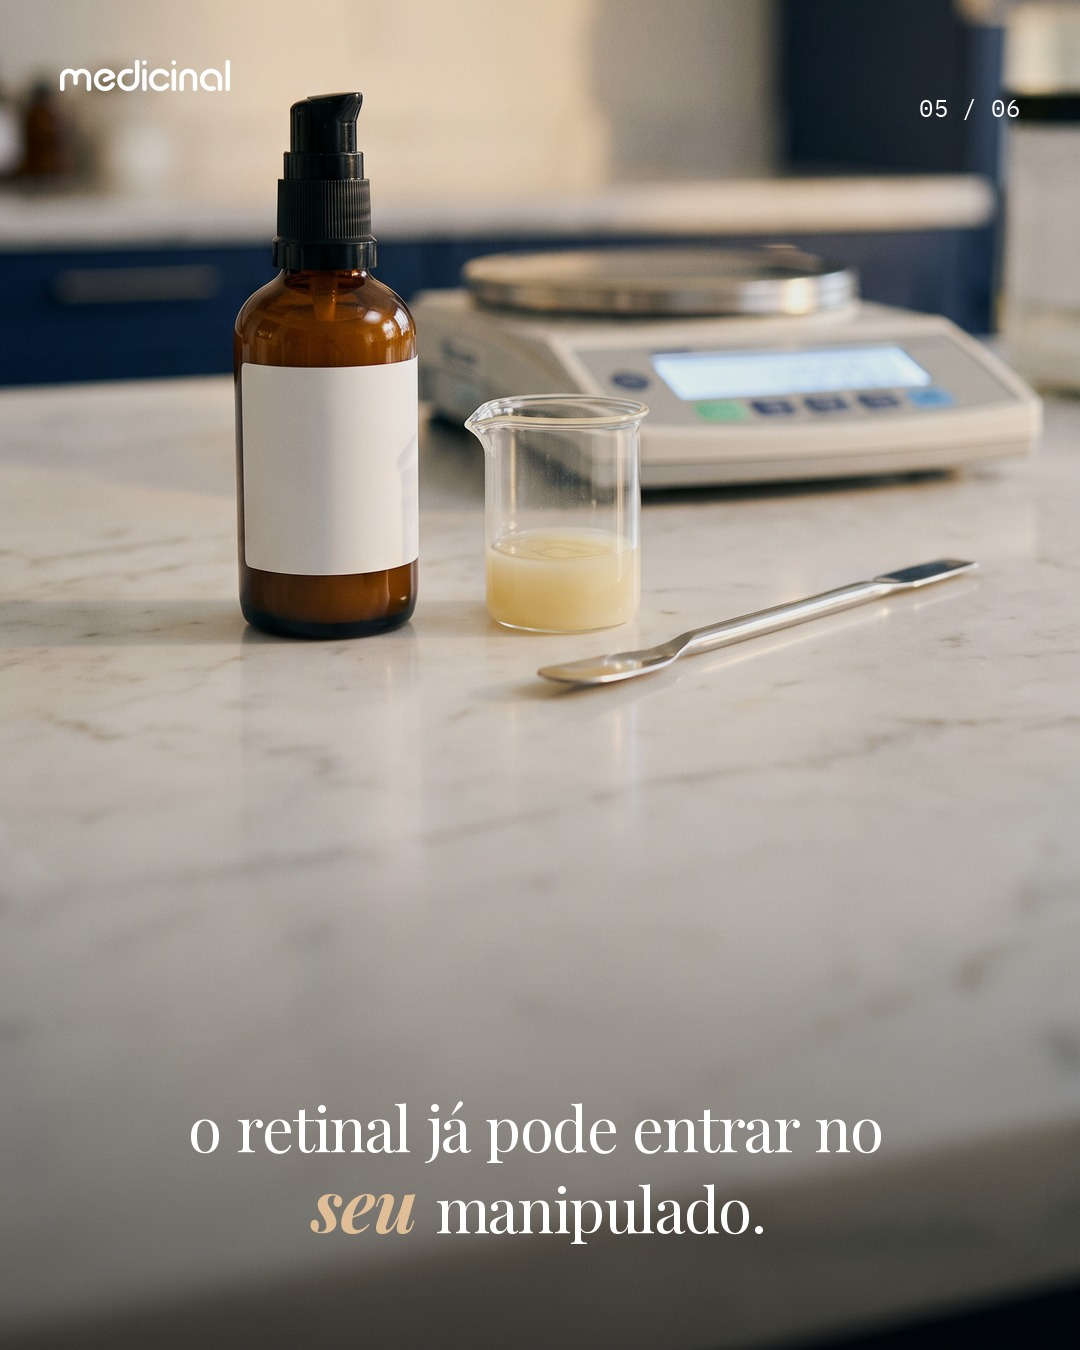
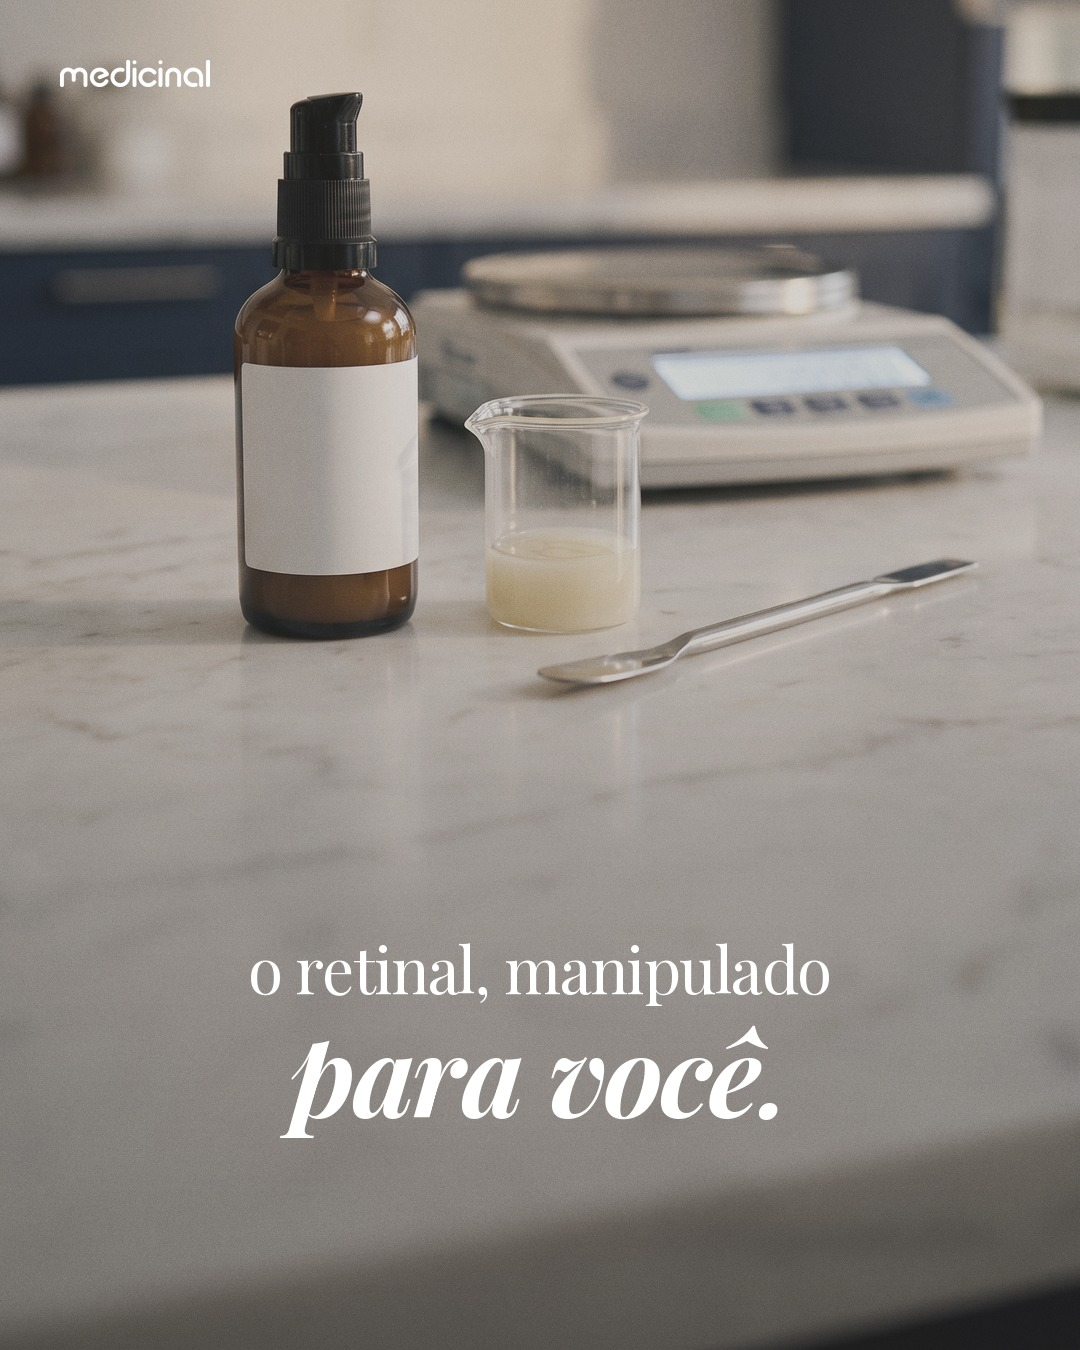
Dermo-day na linguagem de 2025: foto em todas as lâminas, tons apagados, palavra-chave branca grande; sem citar farmacêutica
Claude-Session: https://claude.ai/code/session_01Bm6rABw341qEUcQn2o9EUx

diff --git a/grade/dermo/carrossel.py b/grade/dermo/carrossel.py
@@ -1,64 +1,75 @@
-"""Carrossel de feed do Dermo-day (4:5, 1080x1350), modelo F do doc 09.
-Regras: uma ideia por lâmina; no máximo 2 fontes (Playfair + IBM Plex Mono); sem caixa, faixa ou etiqueta;
-numeração e linha fina; nota curta em mono; logo oficial (feed). Fundo off-white, com uma lâmina marinho (E)
-e duas fotográficas (capa com o produto de referência ofuscado; bancada).
+"""Carrossel de feed do Dermo-day (4:5, 1080x1350) na linguagem visual do Instagram de 2025 (doc 09).
+Toda lâmina é foto (sem fundo chapado), em tons neutros e frios-quentes apagados (taupe, cinza quente),
+texto branco centralizado: rótulo Poppins caixa alta espaçada OU frase Playfair com palavra-chave
+Bold Italic branca e maior. No máximo 2 fontes por lâmina. Logo pequeno branco no canto. Sem caixa nem faixa.
 Uso: python3 -I carrossel.py <conteudo.json> <pasta_saida>
 """
-import json, random, sys
+import json, sys
 from pathlib import Path
-from PIL import Image, ImageChops, ImageDraw, ImageFilter, ImageFont
+from PIL import Image, ImageChops, ImageDraw, ImageEnhance, ImageFilter, ImageFont
 sys.path.insert(0, str(Path(__file__).resolve().parent.parent / "campanha-nov"))
-from modelos import frase_linhas, desenha_frase, COR, A
-W, H, N = 1080, 1350, 6
+from modelos import frase_linhas, desenha_frase, espacado, A
+W, H = 1080, 1350; BR = (255, 255, 255); TAUPE = (196, 172, 160)
+POP = lambda t: ImageFont.truetype(str(A/"fonts"/"Poppins-Bold.ttf"), t)
 MONO = lambda t: ImageFont.truetype(str(A/"fonts"/"IBMPlexMono-Regular.ttf"), t)
-def logo(img, cor):
-    lg = Image.open(A/"logo"/f"medicinal-palavra-{cor}.png").convert("RGBA"); lg = lg.resize((170, round(lg.height*170/lg.width)), Image.LANCZOS)
+def apagado(im, sat=0.62, contraste=0.9, tom=0.10):
+    im = ImageEnhance.Color(im.convert("RGB")).enhance(sat); im = ImageEnhance.Contrast(im).enhance(contraste)
+    return Image.blend(im, Image.new("RGB", im.size, TAUPE), tom)
+def cobre(im, ancora=0.5):
+    r = max(W/im.width, H/im.height); im = im.resize((round(im.width*r), round(im.height*r)), Image.LANCZOS)
+    x = (im.width - W)//2; y = round((im.height - H) * ancora); return im.crop((x, y, x+W, y+H))
+def escurece(im, base=0.12, extra=0.22, de=0.35):
+    ov = Image.new("L", (W, H), 0); d = ImageDraw.Draw(ov)
+    for y in range(H): d.line([(0, y), (W, y)], fill=round(255 * (base + extra * max(0, (y - de*H) / ((1-de)*H)))))
+    return Image.composite(Image.new("RGB", (W, H), (20, 16, 14)), im, ov)
+def logo(img):
+    lg = Image.open(A/"logo"/"medicinal-palavra-branco.png").convert("RGBA"); lg = lg.resize((150, round(lg.height*150/lg.width)), Image.LANCZOS)
     img.alpha_composite(lg, (60, 60))
-def num(d, i, cor):
-    t = f"{i:02d} / {N:02d}"; f = MONO(24); d.text((W - 60 - f.getlength(t), 92), t, font=f, fill=cor)
-def grao(img, forca=6):
-    rnd = random.Random(7); g = Image.effect_noise((W, H), 40).convert("L").point(lambda v: 128 + (v - 128) * forca // 40)
-    return Image.composite(img, Image.merge("RGBA", [ImageChops.overlay(c, g) for c in img.convert("RGB").split()] + [img.getchannel("A")]), Image.new("L", (W, H), 235))
-def nota(d, y, txt, cor):
-    d.line([(W/2 - 36, y), (W/2 + 36, y)], fill=cor, width=2)
-    f = MONO(30); d.text((W/2, y + 64), txt, font=f, fill=cor, anchor="ms")
-def lamina_texto(i, fundo, frase, txt_nota, cor, cor_k, logo_cor, tam=78):
-    img = Image.new("RGBA", (W, H), COR[fundo] + (255,)); d = ImageDraw.Draw(img); logo(img, logo_cor); num(d, i, cor)
-    linhas = frase_linhas(frase, tam, W - 200); alt = len(linhas) * tam * 1.3 + (150 if txt_nota else 0)
-    y = desenha_frase(d, W, (H - alt) / 2 - 10, linhas, tam, cor, cor_k)
-    if txt_nota: nota(d, y + 50, txt_nota, cor)
-    return grao(img)
+def fim(im):  # grão leve de filme
+    g = Image.effect_noise((W, H), 18).convert("L"); return Image.blend(im.convert("RGB"), Image.merge("RGB", [ImageChops.overlay(c, g) for c in im.convert("RGB").split()]), 0.18)
+def pf(t, it=False, peso=400):
+    f = ImageFont.truetype(str(A/"fonts"/("PlayfairDisplay-Italic.ttf" if it else "PlayfairDisplay.ttf")), t); f.set_variation_by_axes([peso]); return f
+def frase(img, y, txt, tam=64, k=1.75):
+    """Como em 2025: linhas separadas por |; a linha entre *asteriscos* sai em Bold Italic branca, bem maior."""
+    d = ImageDraw.Draw(img)
+    for linha in txt.split("|"):
+        linha = linha.strip(); chave = linha.startswith("*") and linha.endswith("*")
+        f = pf(round(tam * k), True, 700) if chave else pf(tam); t = linha.strip("*"); tt = f.size
+        # espaçamento entre letras levemente negativo (-2,5%)
+        w = sum(f.getlength(ch) for ch in t) - 0.025 * tt * max(len(t) - 1, 0); x = (W - w) / 2; y += tt
+        for ch in t: d.text((x, y), ch, font=f, fill=BR, anchor="ls"); x += f.getlength(ch) - 0.025 * tt
+        y += tt * 0.18
+    return y
+def rotulo(img, y, txt, tam=40, track=12):
+    espacado(ImageDraw.Draw(img), W/2, y, txt.upper(), POP(tam), BR, track)
+def mono(img, y, txt, tam=28):
+    d = ImageDraw.Draw(img); f = MONO(tam); w = f.getlength(txt); d.text(((W-w)/2, y), txt, font=f, fill=BR, anchor="ls")
+    d.line([((W-w)/2, y + 9), ((W+w)/2, y + 9)], fill=BR, width=2)
+def foto(caminho, ancora=0.5, **k): return escurece(apagado(cobre(Image.open(caminho), ancora)), **k).convert("RGBA")
 def capa(c):
-    # produto de referência ofuscado sobre areia com luz de janela (gradiente lateral) e sombra de contato
-    base = Image.new("RGB", (W, H), COR["areia"]); luz = Image.new("L", (W, H), 0); dl = ImageDraw.Draw(luz)
-    for x in range(W): dl.line([(x, 0), (x, H)], fill=round(46 * (1 - x / W) ** 1.6))
-    base = Image.composite(Image.new("RGB", (W, H), (255, 246, 232)), base, luz)
+    # produto de referência ofuscado sobre fundo taupe com luz suave (como os fundos de 2025)
+    base = Image.new("RGB", (W, H), TAUPE); luz = Image.new("L", (W, H), 0); dl = ImageDraw.Draw(luz)
+    for x in range(W): dl.line([(x, 0), (x, H)], fill=round(70 * (1 - x / W) ** 1.4))
+    base = Image.composite(Image.new("RGB", (W, H), (226, 210, 200)), base, luz)
     src = Image.open(c["foto_referencia"]).convert("RGB"); bg = src.getpixel((5, 5))
     src = Image.merge("RGB", [ch.point(lambda v, b=b: min(255, round(v * 255 / max(b, 1) * 1.05))) for ch, b in zip(src.split(), bg)])
     m = tuple(c["marca"]); src.paste(src.crop(m).filter(ImageFilter.GaussianBlur(10)), m[:2])
-    p = src.crop(tuple(c["recorte"])).filter(ImageFilter.GaussianBlur(1.4)); alt = 860; p = p.resize((round(p.width*alt/p.height), alt), Image.LANCZOS)
-    x, y = (W - p.width)//2, 300; reg = base.crop((x, y, x + p.width, y + p.height))
-    mask = Image.new("L", p.size, 0); ImageDraw.Draw(mask).rectangle([40, 40, p.width - 40, p.height - 40], fill=255); mask = mask.filter(ImageFilter.GaussianBlur(30))
-    base.paste(Image.composite(ImageChops.multiply(reg, p), reg, mask), (x, y))  # bordas esfumadas: o recorte não aparece
-    img = base.convert("RGBA"); d = ImageDraw.Draw(img); logo(img, "marinho"); num(d, 1, COR["marinho"])
-    desenha_frase(d, W, 150, frase_linhas(c["capa"], 64, W - 220), 64, COR["marinho"], COR["cafe"])
-    return grao(img)
-def bancada(c):
-    foto = Image.open(c["foto_bancada"]).convert("RGB"); r = max(W/foto.width, H/foto.height)
-    foto = foto.resize((round(foto.width*r), round(foto.height*r)), Image.LANCZOS); x = (foto.width-W)//2; foto = foto.crop((x, foto.height-H, x+W, foto.height))
-    img = foto.convert("RGBA"); ov = Image.new("L", (W, H), 0); dv = ImageDraw.Draw(ov)
-    for y in range(H): dv.line([(0, y), (W, y)], fill=round(255 * (0.08 + 0.40 * max(0, (y - 0.62*H)/(0.38*H)) ** 1.2)))
-    img = Image.composite(Image.new("RGBA", (W, H), (0, 0, 0, 255)), img, ov); d = ImageDraw.Draw(img); logo(img, "branco"); num(d, 5, (255, 255, 255))
-    desenha_frase(d, W, 1090, frase_linhas(c["manip_frase"], 62, W - 200), 62, (255, 255, 255), COR["areia"])
-    return grao(img)
+    p = apagado(src.crop(tuple(c["recorte"])).filter(ImageFilter.GaussianBlur(1.4)), sat=0.75, tom=0.0)
+    alt = 900; p = p.resize((round(p.width*alt/p.height), alt), Image.LANCZOS)
+    x, y = (W - p.width)//2 + 120, 400; reg = base.crop((x, y, x + p.width, y + p.height))
+    mask = Image.new("L", p.size, 0); ImageDraw.Draw(mask).rectangle([40, 40, p.width-40, p.height-40], fill=255); mask = mask.filter(ImageFilter.GaussianBlur(30))
+    base.paste(Image.composite(ImageChops.multiply(reg, p), reg, mask), (x, y))
+    img = escurece(base, base=0.05, extra=0.18, de=0.5).convert("RGBA"); logo(img)
+    y = frase(img, 170, c["capa"], 62); mono(img, y + 60, c["capa_mono"])
+    return fim(img)
+def lamina(c, chave):
+    L = c[chave]; img = foto(L["foto"], L.get("ancora", 0.5)); logo(img)
+    if L.get("rotulo"): rotulo(img, L.get("y", 760), L["rotulo"], L.get("tam_rotulo", 46), 14)
+    if L.get("frase"): y = frase(img, L.get("y", 700), L["frase"], L.get("tam", 64))
+    if L.get("mono"): mono(img, L.get("y_mono", (L.get("y", 700) + 80) if L.get("rotulo") else y + 60), L["mono"])
+    return fim(img)
 if __name__ == "__main__":
     c = json.load(open(sys.argv[1])); out = Path(sys.argv[2]); out.mkdir(parents=True, exist_ok=True)
-    M, O, CA = COR["marinho"], COR["offwhite"], COR["caramelo"]
-    laminas = [capa(c),
-               lamina_texto(2, "offwhite", c["l2"], c["l2_nota"], M, M, "marinho"),
-               lamina_texto(3, "marinho", c["l3"], c["l3_nota"], O, CA, "off-white"),
-               lamina_texto(4, "offwhite", c["l4"], c["l4_nota"], M, M, "marinho"),
-               bancada(c),
-               lamina_texto(6, "offwhite", c["l6"], c["l6_nota"], M, M, "marinho", tam=88)]
+    laminas = [capa(c)] + [lamina(c, k) for k in ("l2", "l3", "l4", "l5", "l6")]
     for i, im in enumerate(laminas, 1): im.convert("RGB").save(out/f"{c['slug']}-{i}.jpg", "JPEG", quality=92)
     print("ok")

diff --git a/docs/13-portal-instagram.md b/docs/13-portal-instagram.md
@@ -158,5 +158,22 @@ flowchart LR
   - 4 perguntas com botões: tipo de pele, objetivo, uso atual de ácido ou retinoide, gestante ou amamentando.
   - Gestante ou amamentando, com ativo contraindicado: mensagem de alternativa segura, sem a pergunta de textura.
   - Senão: pergunta de textura.
-  - Fechamento: os cuidados do ativo, a tag `dermo-lead` e a passagem para atendimento humano (a farmacêutica manda fórmula e orçamento).
+  - Fechamento: os cuidados do ativo, a tag `dermo-lead` e a passagem para atendimento humano, que manda a fórmula e o orçamento.
 - **LGPD:** as respostas da pessoa ficam só no ManyChat e no atendimento. Nada volta para o Supabase, o n8n ou o repositório.
+
+## Dermo-day na linguagem visual de 2025 (13/11/2026)
+- Pedido do Ricardo:
+  - "ainda com cara de IA, compare com 2025";
+  - nunca citar "farmacêutica" nas chamadas;
+  - chamada no tom de "comente DERMO e conheça o retinal feito para você".
+- Diferenças achadas na comparação com a grade de 2025 (68 posts em `scratchpad/g25`):
+  1. Em 2025, **toda arte é foto**: produto real, mão, textura. Não havia fundo de cor chapada. Os modelos E, F e C em fundo sólido eram o que dava cara de molde.
+  2. **Tons apagados:** taupe, cinza quente, café com leite, com pouca saturação. As fotos do Runway saíam douradas e saturadas.
+  3. **Palavra-chave em Playfair Bold Italic branca, bem maior e numa linha só dela** ("*Resultado*", "*médico…*"), não em caramelo.
+  4. Rótulo em Poppins espaçado ou linha mono sublinhada, sempre branco sobre foto.
+- Carrossel refeito (`grade/dermo/carrossel.py`):
+  - todas as lâminas com foto, tratadas com `apagado()`;
+  - linhas da frase separadas por `|`, e a linha-chave sai 1,75× maior;
+  - duas fontes por lâmina;
+  - logo branco pequeno.
+- Fotos: 3 são da própria Medicinal em 2025 (textura de sérum, creme na pele, topo do frasco), a do produto de referência é ofuscada e a da bancada vem do Runway.
